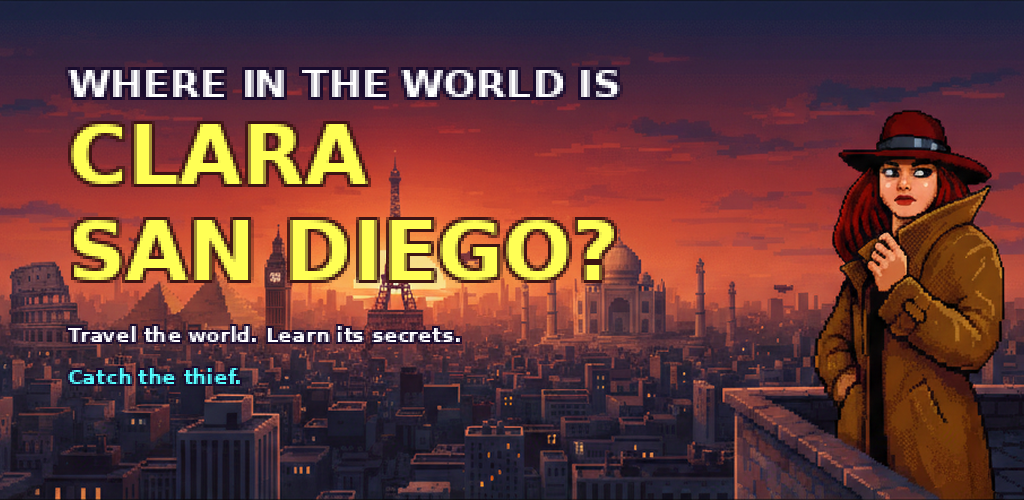
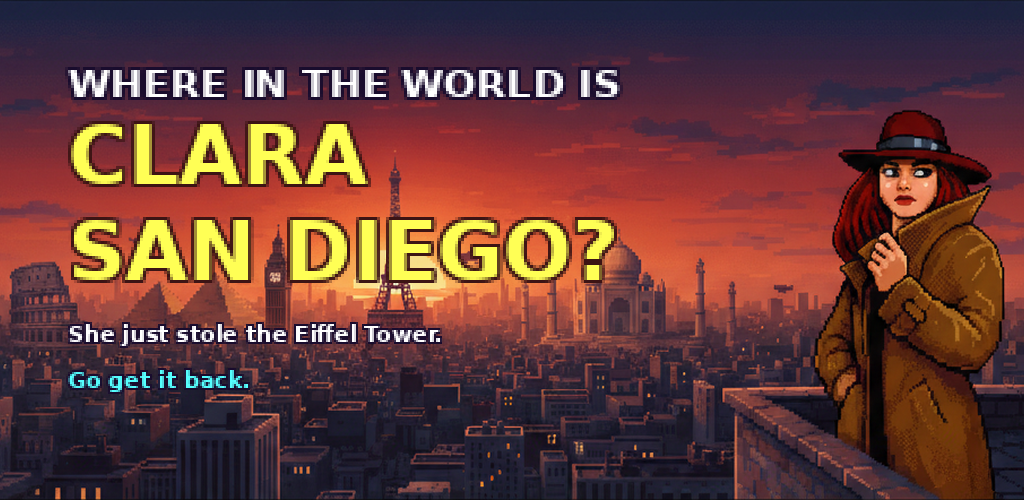
Marketing pass on store visuals: hook slide, floating screens, sharper copy
Screenshots rebuilt as proper store slides: slide 1 is a hook (brand
block, BECOME A WORLD DETECTIVE, 231-destinations/11-languages/offline
chips, circular Clara sticker, tilted gameplay proof), followed by
seven benefit slides — big two-line pixel headlines in the game's
voice (GRILL THE WITNESSES; PROFILE. WARRANT. ARREST.; CASE CLOSED.
NEXT FLIGHT, PLEASE.), one feature chip each, and the gameplay screen
floating at a slight tilt with a depth shadow over panned slices of
the key art so the set reads as one campaign. The feature graphic's
vanilla tagline is replaced with 'She just stole the Eiffel Tower.
Go get it back.'

Changed region(s): [[0.0625, 0.63, 0.4688, 0.69], [0.0625, 0.72, 0.25, 0.78]]

diff --git a/playstore/README.md b/playstore/README.md
@@ -33,12 +33,13 @@ Locales prepared: `en-US` (default), `pt-BR`, `es-ES`, `fr-FR`, `de-DE`, `it-IT`
 | Feature graphic  | `graphics/feature_graphic_1024x500.png`     | 1024×500 PNG      |
 | Phone screenshots| `graphics/screenshots/phone/01…08.png`      | 8 framed shots, 1920×1080 |
 
-Marketing-framed real gameplay (pixel caption + white-bordered game viewport on a dark
-scanline canvas): city view, witness interview, departure map, crime computer, World
-Database entry, Passport map, the arrest/jail result screen, and the places-to-visit
-picker. The debug menu is scrubbed from every shot. Unframed clean captures live in
-`graphics/screenshots/raw/` if you ever need them (e.g. localized variants). English
-shots are used for every locale (allowed).
+Store-style marketing slides over the key-art backdrop: slide 1 is the hook (brand,
+"BECOME A WORLD DETECTIVE", feature chips, Clara sticker, gameplay proof), then seven
+benefit slides with big pixel headlines, a feature chip each, and the real gameplay
+screen floating at a slight tilt with depth shadow. The debug menu is scrubbed from
+every capture. Upload in filename order. Clean unframed captures live in
+`graphics/screenshots/raw/` (e.g. for future localized variants). English slides are
+used for every locale (allowed).
 
 ## 3. App category & tags
 
